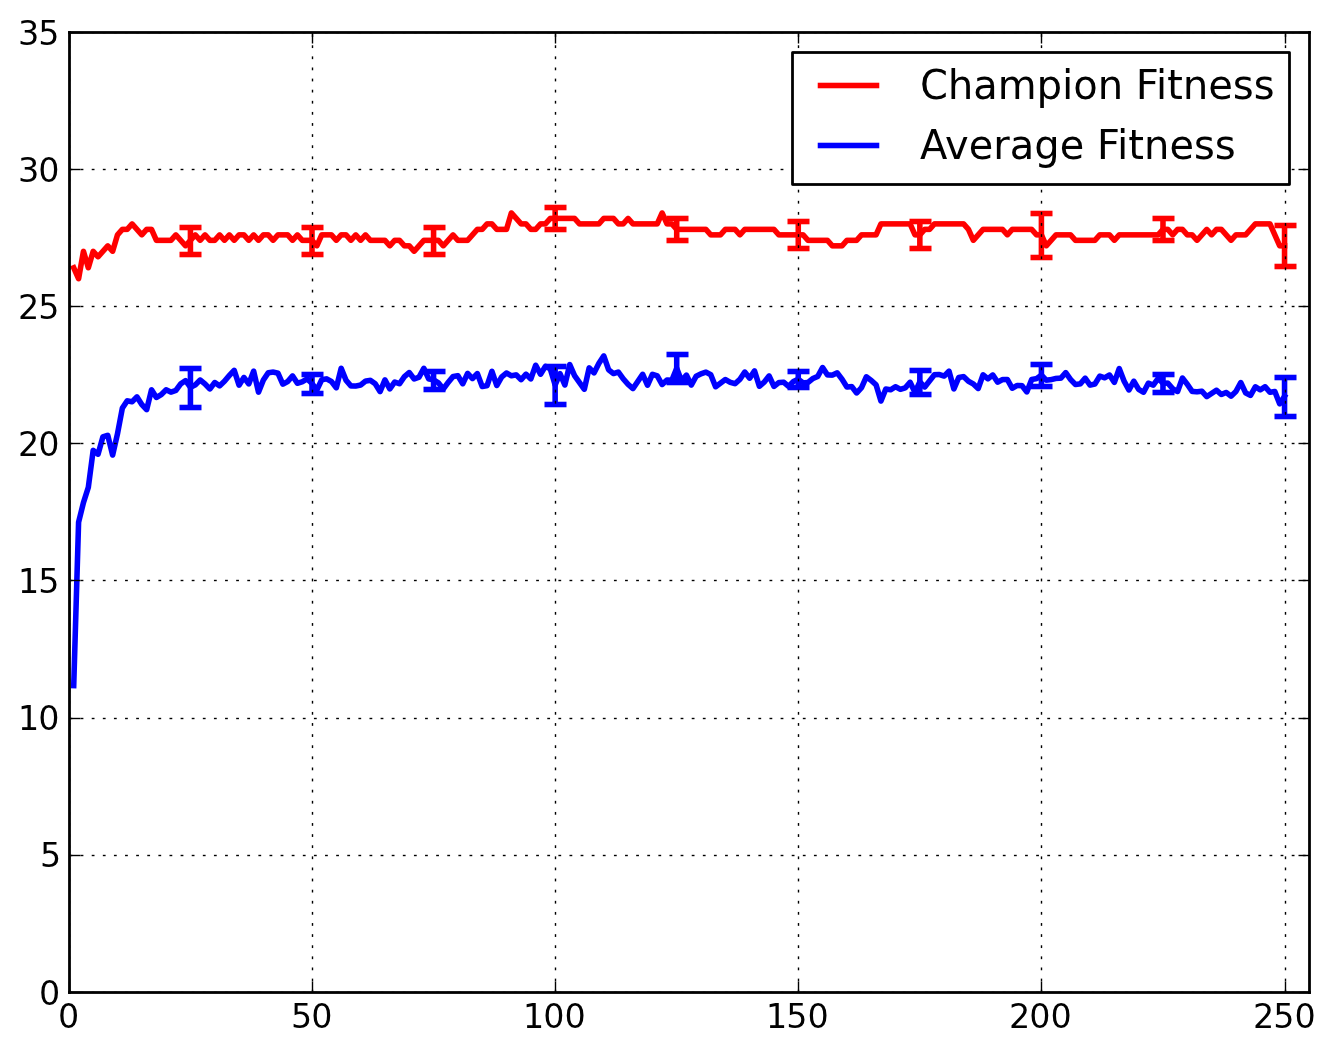
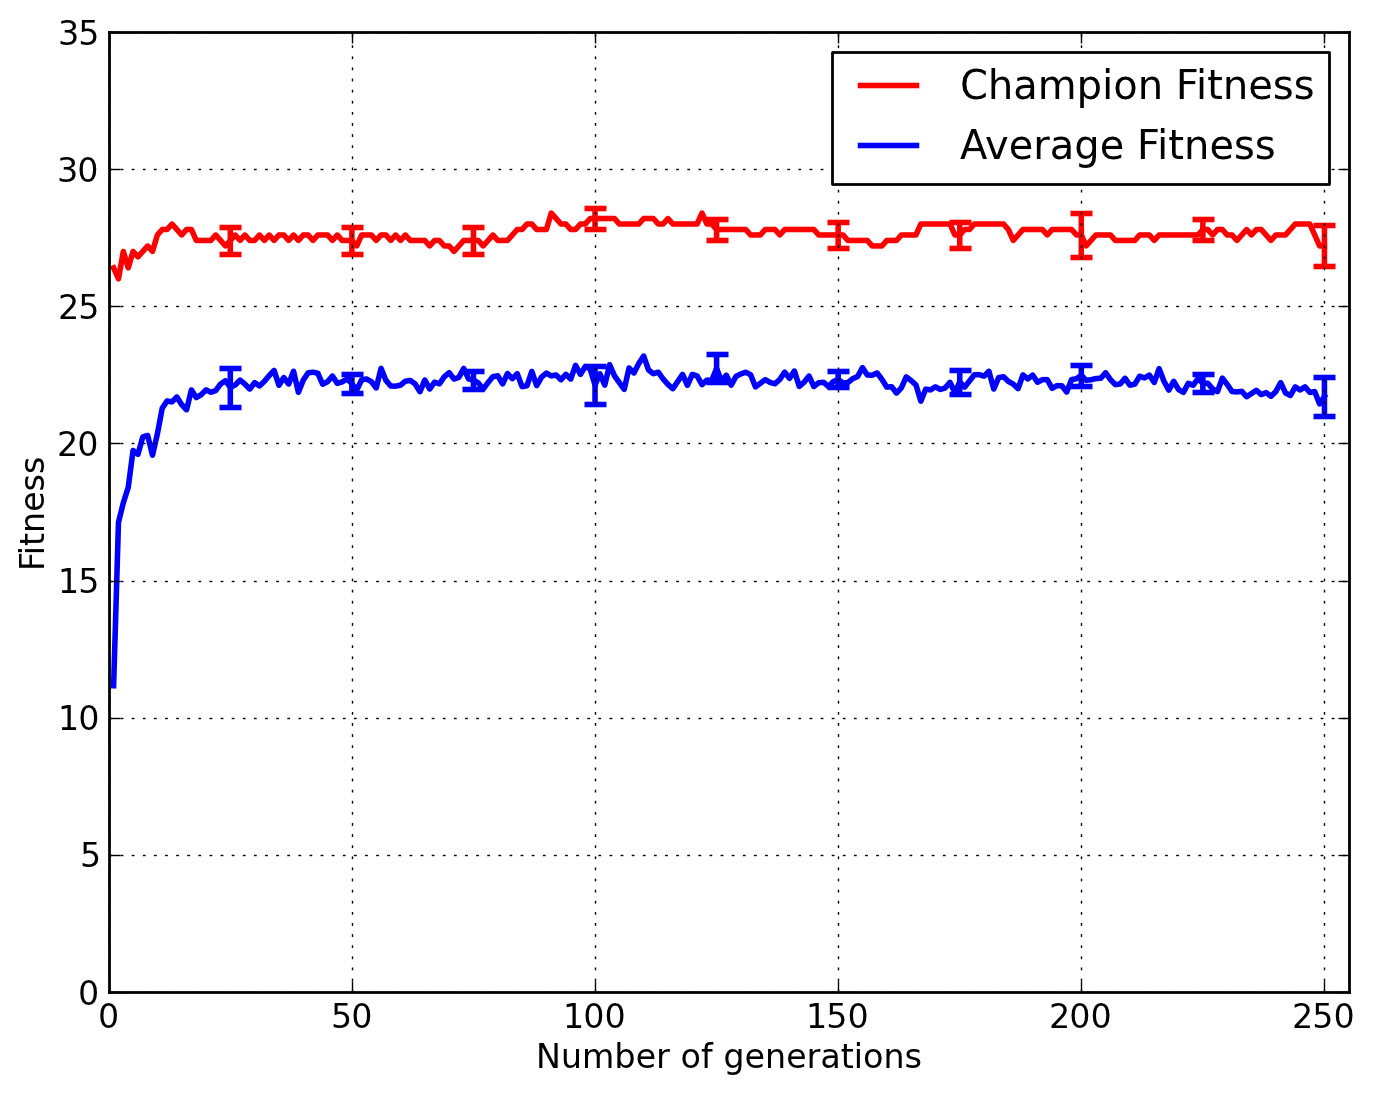
refined and spell checked sections 5.4 and 6. updated tables and plots

diff --git a/gecco/hyperneat.tex b/gecco/hyperneat.tex
@@ -301,7 +301,7 @@ Figure \ref{fig:anninput}
 
 \subsection{Parallel Implementation}
 \label{sec:condor}
-The visual processing and self identification components of our code require some amount of processing time each frame. Depending on the game being played, evaluating a single individual can take anywhere between a few seconds to 5 minutes. Based on some initial experimental work, we estimated that we would need to run HyperNEAT for \textit{250 generations} with \textit{100 individuals per generation} to obtain good results. These parameters make it infeasible to run the entire computation on a single machine in a reasonable amount of time. To speed up the evolution process, we exploit the embarrassingly parallel nature of this approach by evaluating each individual on a separate machine. We make use of the Condor distributed processing cluster \cite{thain2005distributed} to run a massive number of Atari simulations in parallel. This same framework has been used in the past to speed up the optimization of robot soccer agents in simulation using CMA-ES\cite{Urieli+MKBS:2010}. We have modified the original HyperNEAT implementation of \cite{verbancsics10} to run on the Condor cluster.
+The visual processing and self identification components of our code require some amount of processing time each frame. Depending on the game being played, evaluating a single individual can take anywhere between a few seconds to 5 minutes. Based on some initial experimental work, we estimated that we would need to run HyperNEAT for \textit{at least} 250 generations with 100 individuals per generation to obtain representative results. These parameters make it infeasible to run the entire computation on a single machine in a reasonable amount of time. To speed up evolution, we exploit the embarrassingly parallel nature of this approach by evaluating each individual on a separate machine. We make use of the Condor distributed processing cluster \cite{thain2005distributed} to run a massive number of Atari simulations in parallel. A similar framework has been used in the past to speed up the optimization of robot soccer agents in simulation using CMA-ES\cite{Urieli+MKBS:2010}. We have modified the original HyperNEAT implementation of \cite{verbancsics10} to run on the Condor cluster.
 
 % To this end, we exploit the embarassingly parallel nature of the evaluating a number of individuals in a single generation. We use the Depending on the game being played in the Atari simulator, a single evaluation of an individual can last from anything between a few seconds to 2 or 3 minutes. While keeping the evolution parameters to as low as 100 individuals and 300 generations, it is still not possible to obtain results in sufficient time on a single machine. To mitigate this problem, we exploit the embarassingly parallel nature of evaluating individuals. We have modifed the HyperNEAT codebase to run on the Condor cluster, by adapting the framework developed by Yinon Bentor and Patrick MacAlpine.\footnote{This framework was initially developed in a previous iteration of the CS394N class. Since then it has been used by the AustinVilla Robot Soccer team for optimizing policy parameters for various soccer related tasks using evolutionary strategies such as CMA-ES.}
 
@@ -321,34 +321,17 @@ The visual processing and self identification components of our code require som
 \label{fig:condor}
 \end{figure}
 
-Figure \ref{fig:condor} details how parallel evaluations were performed using the Condor framework. Once all the individuals of a given generation have been evaluated on separate machines, all fitness values are gathered and a new generation is produced. This process is then repeated for each successive generation. 
+Figure \ref{fig:condor} details how parallel evaluations are performed using the Condor cluster. Once a generation is produced, all the individuals of that generation are evaluated on separate machines in parallel. After all evaluations have been completed, the fitness values are gathered and a new generation is produced. This process is then repeated for each successive generation. 
 
-We detected a practical problem while using the framework; certain fitness evaluations do not complete and are assigned the minimum score. As a result, some individuals may be lost before maturing enough to improve other members of the population. Although such a situation is not ideal, we believe the evolutionary process to be robust enough to counter this. This hypothesis is corroborated by the steady increase of the average champion fitness (see Fig. \ref{fig:asterix-curve}). 
+We detected a practical problem while using the framework; certain fitness evaluations do not complete and are assigned the minimum score. As a result, some individuals may be lost before maturing enough to improve other members of the population. Although such a situation is not ideal, we believe the evolutionary process to be robust enough to counter it. This hypothesis is corroborated by the steady increase of the average champion fitness in our experiments (see Fig. \ref{fig:asterix-curve}). 
 
 \section{Results}
 \label{sec:results}
-In this section, we provide results obtained from applying HyperNEAT on two Atari games, \textit{Freeway} and \textit{Asterix}. The experimental setup was same for both Freeway and Asterix: HyperNEAT was run for 250 generations, with 100 individuals each generation and a substrate resolution of 16x21. All individuals are evaluated on the simulator using the same random seed. We average results across multiple runs of the HyperNEAT evolution and compare them with previous results obtained using reinforcement learning \cite{naddaf10}. BASS, DISCO, and RAM are gradient descent Sarsa$(\lambda)$ agents with linear function approximation. These methods use state representations corresponding to the sub-sampled screen image, objects on screen, and console ram respectively. We also compare against results obtained from an agent taking random actions each step \cite{naddaf10}.
-
-\begin{table}
-\begin{center}
-\begin{tabular}{|l|c|c|}
-\hline
-~ & \textbf{Freeway} & \textbf{Asterix} \\ \hline
-\textbf{BASS} & 0 & 402 \\ \hline
-\textbf{DISCO} & 0 & 301 \\ \hline
-\textbf{RAM} & 0 & 545 \\ \hline
-\textbf{Random} & 0 & 156 \\ \hline
-\textbf{HyperNEAT(Average)} & 0 & 0 \\ \hline
-\textbf{HyperNEAT(Best)} & 0 & 0 \\ 
-\hline
-\end{tabular}
-\end{center}
-\label{tab:results-table}
-\caption{Game scores obtained in the Freeway and Asterix games.}
-\end{table}
+In this section, we provide results obtained from applying HyperNEAT on two Atari games, \textit{Freeway} and \textit{Asterix}. The experimental setup was same for both Freeway and Asterix: HyperNEAT was run for 250 generations, with 100 individuals each generation and a substrate resolution of 16x21. All individuals were evaluated on the Atari simulator using the same random seed. We have averaged results across multiple runs of the HyperNEAT evolution and compare them with previous results obtained using reinforcement learning \cite{naddaf10}. We present the fitness values of the best individual averaged across all the runs, as well as the overall best individual found. In Table 1, BASS, DISCO, and RAM are gradient descent Sarsa$(\lambda)$ agents with linear function approximation. These methods use state representations corresponding to the sub-sampled screen image, objects on screen, and console ram respectively. We also compare against results obtained from an agent taking random actions each step \cite{naddaf10}. 
 
 \subsection {Freeway}
-Freeway is an Atari game similar to the arcade game Frogger. The player controls a chicken with the objective of reaching the top of the highway while avoiding cars (see Fig. \ref{fig:visproc}). The player receives a score of 1 if the chicken reaches the top of the highway, and the chicken moves back to the bottom of the screen. If the chicken gets hit by a car, it gets pushed down by a fixed small distance. The game ends after two minutes of game-play. There are three possible actions that the player may use in Freeway: \textit{Up}, \textit{Down}, and \textit{No-Action}.
+
+Freeway is an Atari game similar to the arcade game \textit{Frogger}. The player controls a chicken with the objective of reaching the top of the highway while avoiding cars (see Fig. \ref{fig:visproc}). The player receives a score of 1 if the chicken reaches the top of the highway, and the chicken moves back to the bottom of the screen. If the chicken gets hit by a car, it gets pushed down by a fixed small distance. The game ends after two minutes of game-play. There are three possible actions that the player may use in Freeway: \textit{Up}, \textit{Down}, and \textit{No-Action}.
 
 \begin{figure}[ht]
 \begin{center}
@@ -359,10 +342,10 @@ Freeway is an Atari game similar to the arcade game Frogger. The player controls
 \end{figure}
 
 % \ref{tab:results-table} points incorrectly to 6?
-Average fitness of the population and the champion fitness along the learning process can be seen in Fig. \ref{fig:freeway-curve}. Results were averaged across 5 runs of HyperNEAT evolution. Table 1 contrasts our approach with previous results. The most striking observation from these results is that reinforcement learning is unable to find a solution to the problem, whereas even the first generation in the HyperNEAT approach produces a champion with a very high fitness. We believe that reinforcement learning has to perform a large number of exploratory actions before it can reach the goal state at the top, and succumbs to the highly delayed nature of the reward in this game. On the other hand, all individuals in the HyperNEAT based approach are produced by randomly initialized CPPNs. Due to the nature of CPPNs, at least a few individuals have the propensity to always take the \textit{Up} action and obtain a large fitness at the outset. The individuals learn fairly quickly to avoid cars over the next 50 generations, which can be seen by the increase in champion and average fitness.
+Average fitness of the population and the champion fitness along the learning process can be seen in Fig. \ref{fig:freeway-curve}. Results were averaged across 5 runs of HyperNEAT evolution. Table 1 contrasts our approach with previous results. The most striking observation from these results is that reinforcement learning is unable to find a solution to the problem, whereas even the first generation in HyperNEAT produces a champion with a very high fitness (starting average champion fitness = 26.4). We believe that reinforcement learning has to perform a large number of exploratory actions before it can reach the goal state at the top, and succumbs to the highly delayed nature of the reward in this game. On the other hand, all individuals in HyperNEAT are produced by randomly initialized CPPNs. Due to the nature of CPPNs, at least a few individuals have the propensity to always take the \textit{Up} action and obtain a large fitness at the outset. Evolution helps individuals to learn fairly quickly to avoid cars over the next 50 generations, which can be seen by the slight increase in champion and average fitness.
 
 \subsection {Asterix}
-In Asterix, the player controls Asterix with the objective of collecting magic potions and avoiding \textit{lyres}. Both the magic potions and the lyres move across the screen around Asterix. Each time Asterix collects a magic potion, the player receives a score of 50. The game is over when the player character is hit by a lyre. Asterix can take five possible actions: \textit{Up}, \textit{Down}, \textit{Left}, \textit{Right}, and \textit{No-Action}.''
+In Asterix, the player controls a unit called Asterix with the objective of collecting magic potions and avoiding \textit{lyres}. Both the magic potions and the lyres move across the screen around Asterix. Each time Asterix collects a magic potion, the player receives a score of 50. The game is over when the Asterix touches a lyre. Asterix can take five possible actions: \textit{Up}, \textit{Down}, \textit{Left}, \textit{Right}, and \textit{No-Action}.''
 
 \begin{figure}[ht]
 \begin{center}
@@ -372,7 +355,35 @@ In Asterix, the player controls Asterix with the objective of collecting magic p
 \label{fig:asterix-curve}
 \end{figure}
 
-Results from the Asterix game are summarized in Figure \ref{fig:asterix-curve} and Table 1. Unlike the Freeway game, the champion fitness curve shows significant improvement accross successive generations. Secondly, the champion fitness reaches a high of 750 before dropping down to around the 550 mark. We suspect that our Condor implementaion is responsible, and that the champion was lost to an incomplete Condor job (see Section \ref{sec:condor}). We hope to rectify this issue in the future by making our framework more robust. In contrast to the Freeway game, RL methods perform decently well in this domain. Initial exploration probably causes the agent to learn to stay away from the sprites much faster in this case. However HyperNEAT still outperforms RL based methods. On the other hand, HyperNEAT does not perform as well as a human player. We attribute this to the higher complexity of the game, as well as multiple object classes (which is something we are still working on). 
+Average fitness of the population and the champion fitness along the learning process can be seen in Fig. \ref{fig:asterix-curve}. Results for Asterix were averaged across 10 runs of HyperNEAT evolution. Table 1 contrasts our approach with previous results. The results for Asterix are qualitatively different from Freeway in a number of ways:
+\begin{itemize}
+\item
+Random exploration obtains non-zero reward in Asterix as Asterix inadvertently collects magic potions during random motion. Reinforcement Learning approaches can bootstrap from this information and learn to become statistically better than random.
+\item
+Champions from HyperNEAT evolution start at close to random performance (starting average champion fitness = 190) and improve their performance to the same level as that of reinforcement learning approaches within 50 generations. 
+\item
+The learning process steadily improves the fitness through the entirety of 250 generations. This demonstrates the power of using CPPNs at representing good policies for this game. Secondly, it also shows the ability of HyperNEAT to learn better CPPNs.
+\end{itemize}
+
+%Results from the Asterix game are summarized in Figure \ref{fig:asterix-curve} and Table 1. Unlike the Freeway game, the champion fitness curve shows significant improvement accross successive generations. Secondly, the champion fitness reaches a high of 750 before dropping down to around the 550 mark. We suspect that our Condor implementaion is responsible, and that the champion was lost to an incomplete Condor job (see Section \ref{sec:condor}). We hope to rectify this issue in the future by making our framework more robust. In contrast to the Freeway game, RL methods perform decently well in this domain. Initial exploration probably causes the agent to learn to stay away from the sprites much faster in this case. However HyperNEAT still outperforms RL based methods. On the other hand, HyperNEAT does not perform as well as a human player. We attribute this to the higher complexity of the game, as well as multiple object classes (which is something we are still working on). 
+
+\begin{table}
+\begin{center}
+\begin{tabular}{|l|c|c|}
+\hline
+~ & \textbf{Freeway} & \textbf{Asterix} \\ \hline
+\textbf{BASS} & 0 & 402 \\ \hline
+\textbf{DISCO} & 0 & 301 \\ \hline
+\textbf{RAM} & 0 & 545 \\ \hline
+\textbf{Random} & 0 & 156 \\ \hline
+\textbf{HyperNEAT(Average)} & 28.4 & 725 \\ \hline
+\textbf{HyperNEAT(Best)} & 29 & 1000 \\ 
+\hline
+\end{tabular}
+\end{center}
+\label{tab:results-table}
+\caption{Game scores obtained in the Freeway and Asterix games.}
+\end{table}
 
 \section{Future Work}
 \label{sec:futurework}

diff --git a/gecco/results/asterix/merge.py b/gecco/results/asterix/merge.py
@@ -50,9 +50,10 @@ for file_number in range(len(filenames)):
       means_error.append(numpy.mean(values[row]))
       stddev_error.append(numpy.std(values[row]))
 
+    mean_val = numpy.mean(values[row])
     #print csv to file with mean and generation ready for chart creation
     values[row].append(row+1)
-    values[row].append(numpy.mean(values[row]))
+    values[row].append(mean_val)
     file_writer.writerow(values[row])
     #print [row+1, numpy.mean(values[row]), numpy.std(values[row])]
 
@@ -63,4 +64,6 @@ plt.xlim(0,255)
 plt.ylim(0,1100)
 #plt.show()
 plt.grid()
+plt.xlabel('Number of generations')
+plt.ylabel('Fitness')
 plt.savefig('figure.png', bbox_inches='tight', dpi=200)

diff --git a/gecco/results/freeway/merge.py b/gecco/results/freeway/merge.py
@@ -50,9 +50,10 @@ for file_number in range(len(filenames)):
       means_error.append(numpy.mean(values[row]))
       stddev_error.append(numpy.std(values[row]))
 
+    mean_val = numpy.mean(values[row])
     #print csv to file with mean and generation ready for chart creation
     values[row].append(row+1)
-    values[row].append(numpy.mean(values[row]))
+    values[row].append(mean_val)
     file_writer.writerow(values[row])
     #print [row+1, numpy.mean(values[row]), numpy.std(values[row])]
 
@@ -63,4 +64,6 @@ plt.xlim(0,255)
 plt.ylim(0,35)
 #plt.show()
 plt.grid()
+plt.xlabel('Number of generations')
+plt.ylabel('Fitness')
 plt.savefig('figure.png', bbox_inches='tight', dpi=200)
